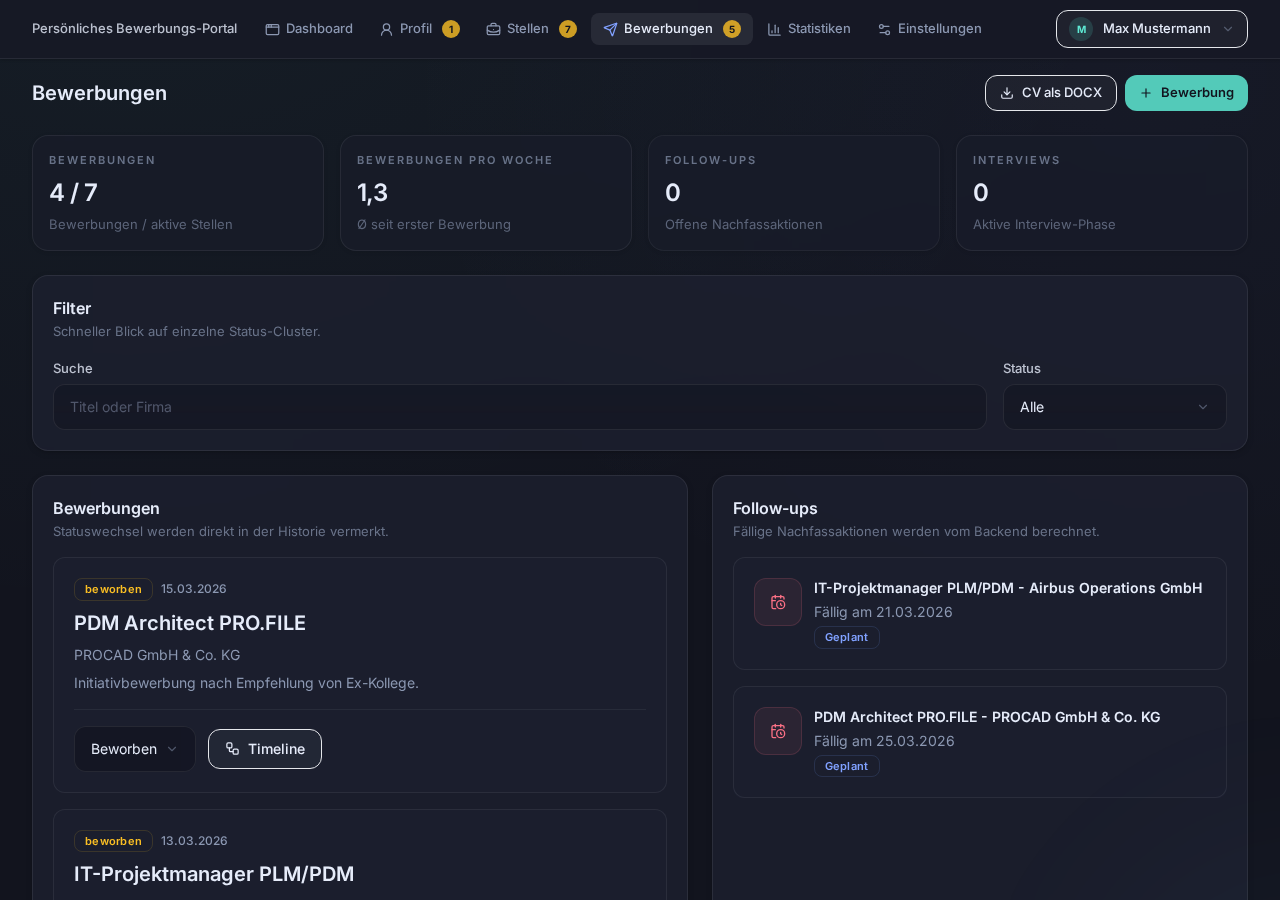
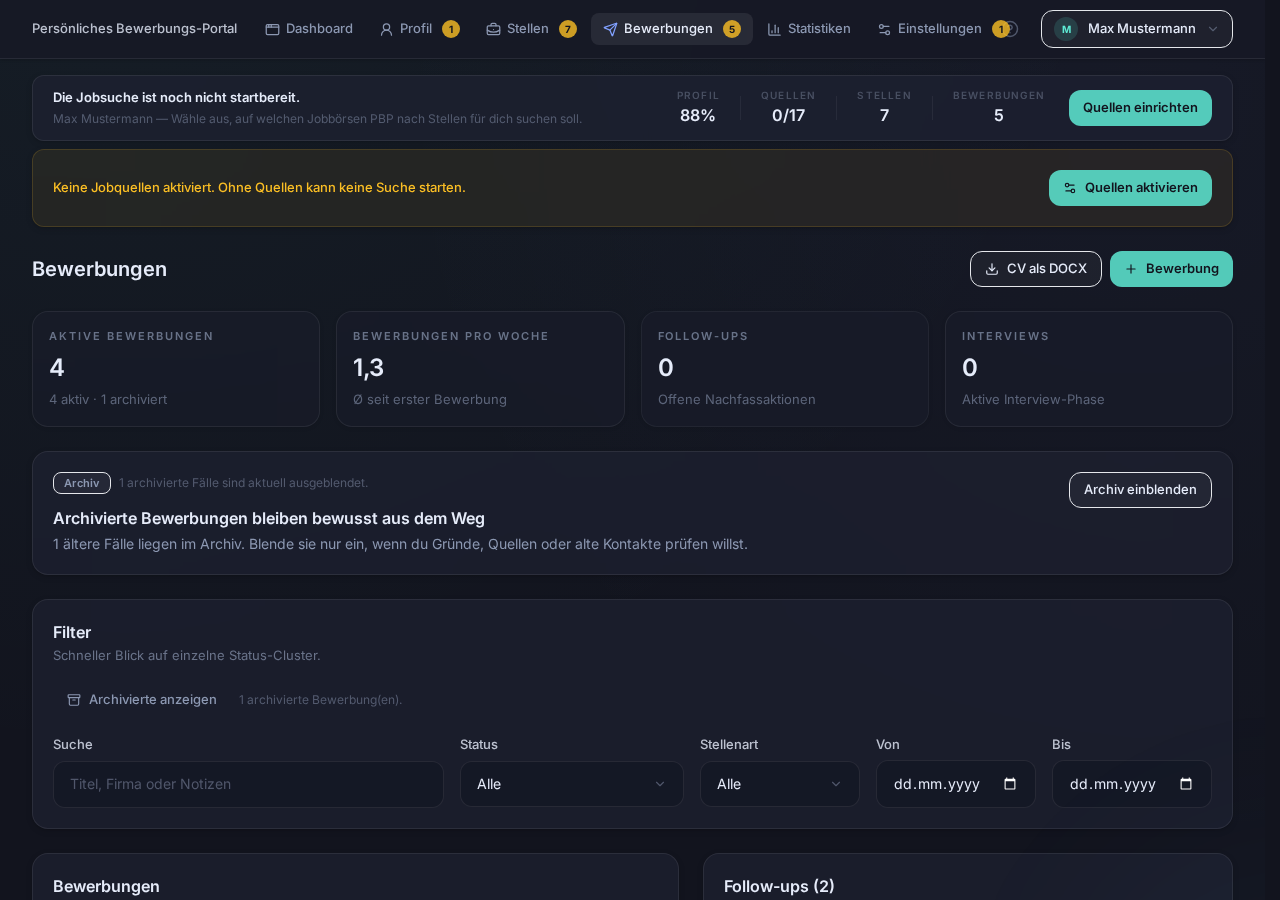
docs: Screenshots aktualisiert — 3 neue Onboarding-Zustaende
Neue Screenshots:
- 00_willkommen.png: Erster Start (kein Profil) — zeigt Willkommensbildschirm
- 00b_profil_unvollstaendig.png: Profil angelegt aber unvollstaendig
- 00c_dashboard_vollstaendig.png: Alles eingerichtet, aktive Bewerbungen

Alle 9 Screenshots neu generiert mit aktuellem Microcopy (v0.33.2).
README: Onboarding-Screenshots vor den Tab-Screenshots eingefuegt.
generate_screenshots.py: 3-Phasen-Logik (leer → unvollstaendig → voll).

diff --git a/docs/screenshots/generate_screenshots.py b/docs/screenshots/generate_screenshots.py
@@ -261,6 +261,34 @@ def _start_dashboard(db_path: str, port: int):
     server.run()
 
 
+def _dismiss_toasts(page):
+    """Entfernt Toast-Benachrichtigungen vor dem Screenshot."""
+    for _ in range(5):
+        try:
+            close_btns = page.locator("[class*='toast'] button, [class*='Toast'] button, [role='alert'] button")
+            if close_btns.count() > 0:
+                for i in range(close_btns.count()):
+                    close_btns.nth(i).click(timeout=500)
+                time.sleep(0.3)
+        except Exception:
+            pass
+    page.evaluate("""
+        document.querySelectorAll('[class*="toast"], [class*="Toast"], [role="alert"], [role="status"]')
+            .forEach(el => el.remove());
+    """)
+    time.sleep(0.3)
+
+
+def _screenshot(page, url, output_path, desc):
+    """Navigiert zu URL und macht einen Screenshot."""
+    page.goto(url)
+    page.wait_for_load_state("networkidle")
+    time.sleep(2)
+    _dismiss_toasts(page)
+    page.screenshot(path=str(output_path), full_page=False)
+    print(f"  Screenshot: {output_path.name} ({desc})")
+
+
 def _take_screenshots(port: int, output_dir: Path):
     """Nimmt Screenshots aller Dashboard-Tabs."""
     from playwright.sync_api import sync_playwright
@@ -271,10 +299,8 @@ def _take_screenshots(port: int, output_dir: Path):
         browser = p.chromium.launch(headless=True)
         page = browser.new_page(viewport={"width": 1280, "height": 900})
 
-        # Tab-Mapping: (hash_id, filename, description)
-        # React-Frontend nutzt Hash-Navigation: /#dashboard, /#profil, etc.
         tabs = [
-            ("dashboard", "01_dashboard.png", "Dashboard-Übersicht"),
+            ("dashboard", "01_dashboard.png", "Dashboard-\u00dcbersicht"),
             ("profil", "02_profil.png", "Profil-Tab"),
             ("stellen", "03_stellen.png", "Stellen-Tab"),
             ("bewerbungen", "04_bewerbungen.png", "Bewerbungen-Tab"),
@@ -283,32 +309,62 @@ def _take_screenshots(port: int, output_dir: Path):
         ]
 
         for hash_id, filename, desc in tabs:
-            url = f"{base}#{hash_id}"
-            page.goto(url)
-            page.wait_for_load_state("networkidle")
-            time.sleep(2)  # Extra wait for React rendering + API calls
+            _screenshot(page, f"{base}#{hash_id}", output_dir / filename, desc)
 
-            # Dismiss any error toasts before capturing
-            for _ in range(5):
-                try:
-                    close_btns = page.locator("[class*='toast'] button, [class*='Toast'] button, [role='alert'] button")
-                    if close_btns.count() > 0:
-                        for i in range(close_btns.count()):
-                            close_btns.nth(i).click(timeout=500)
-                        time.sleep(0.3)
-                except Exception:
-                    pass
+        browser.close()
 
-            # Also try to remove toasts via JS
-            page.evaluate("""
-                document.querySelectorAll('[class*="toast"], [class*="Toast"], [role="alert"], [role="status"]')
-                    .forEach(el => el.remove());
-            """)
-            time.sleep(0.3)
 
-            path = output_dir / filename
-            page.screenshot(path=str(path), full_page=False)
-            print(f"  Screenshot: {path.name} ({desc})")
+def _take_onboarding_screenshots(port: int, output_dir: Path, db_path: str):
+    """Nimmt Screenshots fuer verschiedene Onboarding-Zustaende."""
+    from playwright.sync_api import sync_playwright
+
+    base = f"http://127.0.0.1:{port}"
+
+    with sync_playwright() as p:
+        browser = p.chromium.launch(headless=True)
+        page = browser.new_page(viewport={"width": 1280, "height": 900})
+
+        # --- Phase 1: Leere DB = Willkommensbildschirm ---
+        print("\n  Phase 1: Neuer User (kein Profil)")
+        _screenshot(page, f"{base}#dashboard",
+                    output_dir / "00_willkommen.png",
+                    "Willkommen — erster Start")
+
+        # --- Phase 2: Profil unvollstaendig (nur Name, keine Skills/Positionen) ---
+        print("  Phase 2: Profil unvollstaendig")
+        db = Database(db_path=db_path)
+        db.initialize()
+        db.save_profile({
+            "name": "Heike Mustermann",
+            "email": "heike@example.com",
+            "summary": "",
+        })
+        db.close()
+        time.sleep(0.5)
+
+        _screenshot(page, f"{base}#dashboard",
+                    output_dir / "00b_profil_unvollstaendig.png",
+                    "Dashboard — Profil unvollst\u00e4ndig")
+
+        # --- Phase 3: Profil vollstaendig, mit Stellen + Bewerbungen ---
+        print("  Phase 3: Profil vollstaendig (Demo-Daten)")
+        db = Database(db_path=db_path)
+        db.initialize()
+        # Loesche das minimale Profil und lade die vollen Demo-Daten
+        conn = db.connect()
+        for tbl in ["positions", "skills", "education", "documents", "profile"]:
+            try:
+                conn.execute(f"DELETE FROM {tbl}")
+            except Exception:
+                pass
+        conn.commit()
+        _create_demo_data(db)
+        db.close()
+        time.sleep(0.5)
+
+        _screenshot(page, f"{base}#dashboard",
+                    output_dir / "00c_dashboard_vollstaendig.png",
+                    "Dashboard — Profil vollst\u00e4ndig, aktive Bewerbungen")
 
         browser.close()
 
@@ -317,14 +373,13 @@ def main():
     print("PBP Screenshot-Generator")
     print("=" * 40)
 
-    # Temp-DB mit Demo-Daten
+    # Temp-DB — startet LEER fuer Onboarding-Screenshots
     tmp_dir = tempfile.mkdtemp(prefix="pbp_screenshots_")
     db_path = os.path.join(tmp_dir, "pbp.db")
 
-    print(f"1. Erstelle Demo-Datenbank: {db_path}")
+    print(f"1. Erstelle leere Datenbank: {db_path}")
     db = Database(db_path=db_path)
     db.initialize()
-    _create_demo_data(db)
     db.close()
 
     # Dashboard starten
@@ -337,8 +392,12 @@ def main():
     server_thread.start()
     time.sleep(3)  # Wait for server startup
 
-    # Screenshots
-    print("3. Erstelle Screenshots...")
+    # Onboarding-Screenshots (leer -> unvollstaendig -> vollstaendig)
+    print("3. Erstelle Onboarding-Screenshots (3 Zustaende)...")
+    _take_onboarding_screenshots(PORT, SCREENSHOT_DIR, db_path)
+
+    # Vollstaendige Tab-Screenshots (DB hat jetzt Demo-Daten)
+    print("4. Erstelle Tab-Screenshots...")
     _take_screenshots(PORT, SCREENSHOT_DIR)
 
     print(f"\nFertig! Screenshots in: {SCREENSHOT_DIR}")

diff --git a/README.md b/README.md
@@ -815,7 +815,16 @@ python -m pytest tests/ -v
 
 > UI-Design von [@Koala280](https://github.com/Koala280) — React 19 + Vite + Tailwind CSS
 
-### Dashboard — Übersicht mit Workspace-Guidance
+### Erster Start — So begr\u00fc\u00dft dich PBP
+![Willkommen](docs/screenshots/00_willkommen.png)
+
+### Profil unvollst\u00e4ndig — PBP zeigt dir den n\u00e4chsten Schritt
+![Profil unvollst\u00e4ndig](docs/screenshots/00b_profil_unvollstaendig.png)
+
+### Alles eingerichtet — Dashboard im Normalbetrieb
+![Dashboard vollst\u00e4ndig](docs/screenshots/00c_dashboard_vollstaendig.png)
+
+### Dashboard — \u00dcbersicht mit Workspace-Guidance
 ![Dashboard](docs/screenshots/01_dashboard.png)
 
 ### Profil — Berufserfahrung, Skills, Ausbildung
